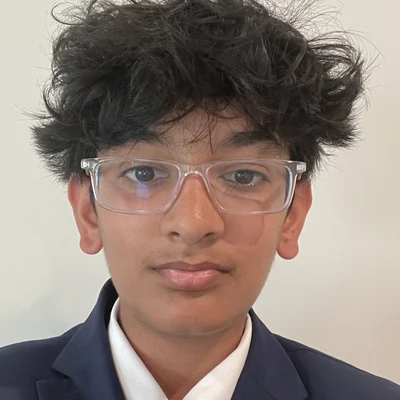
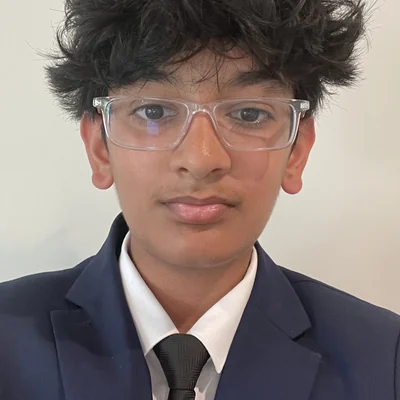
Fix Sri's crop and reframe Ridhun's photo
Sri Vayuvegula: the source is a mirror selfie with a clothes iron at the
bottom of the frame, and the detector was scoring the iron higher than
his face (0.726 and 0.661 versus 0.675). Selecting by confidence would
have picked the iron too, and a landmark-geometry check did not separate
them because the detector reports plausible eye and nose positions on the
iron as well. Pinned his face box explicitly rather than building a
general heuristic around a single bad frame. He now has a real photo
instead of the placeholder, so 11 of 14 members are covered.

Ridhun Gujja: reframed lower so the crop shows head, shoulders, and
collar rather than sitting high with excess headroom. Note the square is
already capped at the full width of the source, so this is a framing
change rather than a true zoom out; there is no more image to include.

Verified in Chromium after scrolling to trigger lazy loading: all 11
local images decode, 14 member cards, 4 former.

Remaining without photos: Nikita Iyer, Aneesh Danduri, Saivikas Gudipati.

Claude-Session: https://claude.ai/code/session_019kmBwAq2FHfzFcHek2WE7v

diff --git a/team/index.html b/team/index.html
@@ -561,7 +561,10 @@
         <article class="member-card">
           <div class="photo-rail">
             <div class="photo-badge">
-              <img src="https://www.gravatar.com/avatar/?d=mp&s=320" alt="Sri Vayuvegula" />
+              <img src="../images/team/sri-vayuvegula-400.webp"
+                   srcset="../images/team/sri-vayuvegula-400.webp 400w, ../images/team/sri-vayuvegula-800.webp 800w"
+                   sizes="128px" width="128" height="128" loading="lazy"
+                   alt="Sri Vayuvegula" />
             </div>
           </div>
           <div class="member-name">Sri Vayuvegula</div>
